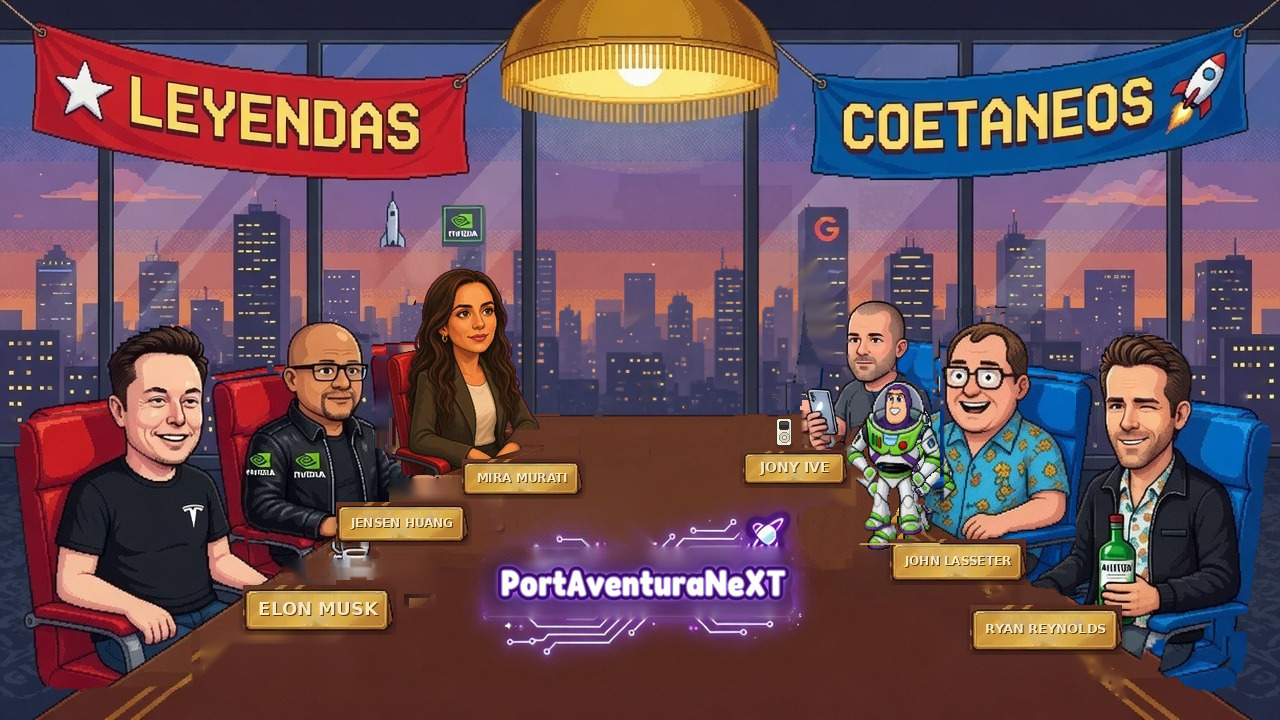
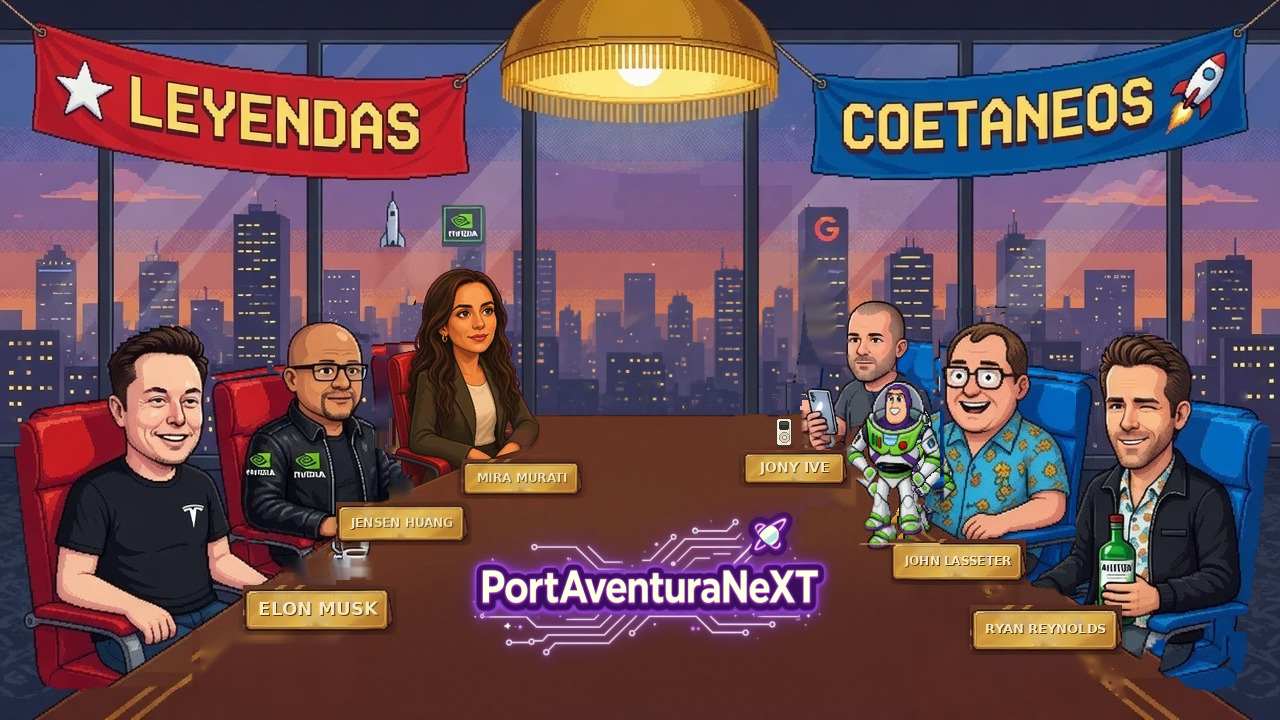
Mesa de Coetáneos regenerada: neón «PortAventuraNeXT» pintado en la mesa (sin parche ni halo) y Carlo Bonomi un 10 % mayor, tras el borde lejano de la mesa (t560u 21:33)

diff --git a/assets/consejo-cabecera.js b/assets/consejo-cabecera.js
@@ -8,11 +8,12 @@
   'use strict';
   var KEY = 'admira:consejo-cabecera';
   var CABECERAS = {
-    'carlo-bonomi': { id: 'carlo-bonomi', nombre: 'Carlo Bonomi', foto: '/assets/cabecera/carlo-bonomi-sentado.webp?v=20261114-mesa', alias: ['bonomi', 'carlo', 'carlo bonomi', 'carlo-bonomi', 'carlobonomi'] }
+    'carlo-bonomi': { id: 'carlo-bonomi', nombre: 'Carlo Bonomi', foto: '/assets/cabecera/carlo-bonomi-sentado.webp?v=20261114-mesa-pan', alias: ['bonomi', 'carlo', 'carlo bonomi', 'carlo-bonomi', 'carlobonomi'] }
   };
-  var POS = { mesa: 'coetaneos', x: 45.0, y: 35.5, w: 12.6, h: 25.722 };
+  // Carlos 21:33: Bonomi un 10 % más grande y más al fondo, tras el borde lejano de la mesa (y=57.57 %); corte = % inferior oculto por la mesa.
+  var POS = { mesa: 'coetaneos', x: 44.37, y: 33.24, w: 13.86, h: 28.294, corte: 14 };
   // Demo (?demo=pan, data-demo-pan en <html>): el neón de la mesa dice «PortAventuraNeXT». Igual que LOGO_DEMO de escena0-guion.mjs.
-  var LOGO = { mesa: 'coetaneos', foto: '/assets/demo/logo-portaventuranext.webp?v=20261114-pan-humo', x: 36.5625, y: 74.1667, w: 26.4062, h: 13.3333 };
+  var LOGO = { mesa: 'coetaneos', foto: '/assets/demo/logo-portaventuranext.webp?v=20261114-mesa-pan', x: 36.5625, y: 74.1667, w: 26.4062, h: 13.3333 };
   var DEFECTO = 'carlo-bonomi';
 
   function plano(s) { return String(s == null ? '' : s).toLowerCase().normalize('NFD').replace(/[\u0300-\u036f]/g, '').trim().replace(/\s+/g, ' '); }
@@ -94,8 +95,8 @@
     document.documentElement.toggleAttribute('data-cabecera', !!(c && gen === POS.mesa));
     if (!c || gen !== POS.mesa) { el.style.display = 'none'; el.innerHTML = ''; return; }
     el.innerHTML =
-      '<img alt="' + c.nombre + ' en la cabecera" data-cabecera="' + c.id + '" src="' + c.foto + '" style="position:absolute;left:' + POS.x + '%;top:' + POS.y + '%;width:' + POS.w + '%;height:' + POS.h + '%;image-rendering:auto">' +
-      '<span class="cabecera-placa" style="position:absolute;left:' + (POS.x + POS.w / 2) + '%;top:' + (POS.y + POS.h + 1.4) + '%;transform:translateX(-50%);white-space:nowrap;padding:.25em .7em;font:700 clamp(8px,1.05vw,15px)/1.1 Georgia,serif;letter-spacing:.06em;text-transform:uppercase;color:#3a2405;background:linear-gradient(#ffe58a,#c9a227 55%,#9c7414);border:1px solid #5a3d08;border-radius:3px;box-shadow:0 2px 0 rgba(0,0,0,.6)">' + c.nombre + '</span>';
+      '<img alt="' + c.nombre + ' en la cabecera" data-cabecera="' + c.id + '" src="' + c.foto + '" style="position:absolute;left:' + POS.x + '%;top:' + POS.y + '%;width:' + POS.w + '%;height:' + POS.h + '%;image-rendering:auto;clip-path:inset(0 0 ' + (POS.corte || 0) + '% 0)">' +
+      '<span class="cabecera-placa" style="position:absolute;left:' + (POS.x + POS.w / 2) + '%;top:' + (POS.y + POS.h * (1 - (POS.corte || 0) / 100) + 0.8) + '%;transform:translateX(-50%);white-space:nowrap;padding:.25em .7em;font:700 clamp(8px,1.05vw,15px)/1.1 Georgia,serif;letter-spacing:.06em;text-transform:uppercase;color:#3a2405;background:linear-gradient(#ffe58a,#c9a227 55%,#9c7414);border:1px solid #5a3d08;border-radius:3px;box-shadow:0 2px 0 rgba(0,0,0,.6)">' + c.nombre + '</span>';
     el.style.display = 'block';
   }
   root.CouncilCabecera = {

diff --git a/escena0/escena0.js b/escena0/escena0.js
@@ -1,11 +1,11 @@
 import {
   parseMesa, MESAS, ROLES, IMG, ANCLA, TEMA_DEFECTO, promptDe, canalVacio,
   marcarPresente, publicState, reservar, decir, siguienteSpeaker,
-} from '/escena0-lib.mjs?v=20261114-pan-humo';
+} from '/escena0-lib.mjs?v=20261114-mesa-pan';
 import {
   parseGuion, parseCabecera, CABECERA_POS, textoTurno, bolsasGuion, promptGuion, mesaDeGuion, msLectura, anclaGuion,
   parseLang, lineasTurno, ROTULOS_EN, anchoGlobo, cajaGlobo, LOGO_DEMO,
-} from '/escena0-guion.mjs?v=20261114-pan-humo';
+} from '/escena0-guion.mjs?v=20261114-mesa-pan';
 
 const $ = (id) => document.getElementById(id);
 const q = new URLSearchParams(location.search);
@@ -92,6 +92,9 @@ function colocarCabecera() {
   el.style.top = (box.y + CABECERA_POS.y / 100 * box.h) + 'px';
   el.style.width = (CABECERA_POS.w / 100 * box.w) + 'px';
   el.style.height = (CABECERA_POS.h / 100 * box.h) + 'px';
+  const corte = CABECERA_POS.corte || 0;
+  const img = $('cabecera-img'); if (img) img.style.clipPath = 'inset(0 0 ' + corte + '% 0)';
+  const placa = $('cabecera-placa'); if (placa) placa.style.top = (100 - corte + 0.8 / CABECERA_POS.h * 100) + '%';
 }
 
 // Neón de la mesa de los Coetáneos con «PortAventuraNeXT» en el flujo de presentación (pan, carlos-bonomi, gartner).

diff --git a/index.html b/index.html
@@ -4600,10 +4600,10 @@ body.rail-open{overflow:hidden}
 <script defer src="/assets/cli-ayuda.js?v=20261011-5707-selector"></script>
 <link rel="stylesheet" href="/assets/webcam.css?v=20261014-5863">
 <script defer src="/assets/webcam.js?v=20261014-5863"></script>
-<script defer src="assets/council-presencia.js?v=20261114-pan-humo"></script>
-<script defer src="assets/consejo-cabecera.js?v=20261114-pan-humo"></script>
+<script defer src="assets/council-presencia.js?v=20261114-mesa-pan"></script>
+<script defer src="assets/consejo-cabecera.js?v=20261114-mesa-pan"></script>
 <script defer src="assets/consejo-demo.js?v=20261114-logo"></script>
-<script defer src="app.flt-100529.js?v=20261114-pan-humo"></script>
+<script defer src="app.flt-100529.js?v=20261114-mesa-pan"></script>
 <script defer src="assets/consejero-mesa.js?v=20261114-consejero-mesa"></script>
 <script defer src="council-preview.js?v=20261114-r180-misiones-off"></script>
 <script defer src="council-composer.js?v=20261114-r181-conversacion"></script>

diff --git a/escena0/index.html b/escena0/index.html
@@ -6,7 +6,7 @@
   <meta name="robots" content="noindex, nofollow">
   <title>Escena 0 · Consejo AdmiraNeXT</title>
   <script src="/auth-gate.js?v=20261004-r15-sinfranja"></script>
-  <link rel="stylesheet" href="/escena0/escena0.css?v=20261114-logo">
+  <link rel="stylesheet" href="/escena0/escena0.css?v=20261114-mesa-pan">
 </head>
 <body>
   <div id="elige" class="overlay" hidden>
@@ -43,6 +43,6 @@
   </div>
   <div id="sello"></div>
   <script src="/consejeros-voces.js?v=20261112-sin-acople"></script>
-  <script type="module" src="/escena0/escena0.js?v=20261114-pan-humo"></script>
+  <script type="module" src="/escena0/escena0.js?v=20261114-mesa-pan"></script>
 </body>
 </html>

diff --git a/app.flt-100529.js b/app.flt-100529.js
@@ -261,7 +261,7 @@
     let currentGen = "leyendas";
     let speakerTurnMap = {};
     let activeLegendPersona = "Steve Jobs";
-    const COUNCIL_IMAGE_VERSION = "20261114-pan-humo";
+    const COUNCIL_IMAGE_VERSION = "20261114-mesa-pan";
     const LEGEND_MANDATES = {
         "Steve Jobs": {
             short: "foco producto",

diff --git a/app.js b/app.js
@@ -261,7 +261,7 @@
     let currentGen = "leyendas";
     let speakerTurnMap = {};
     let activeLegendPersona = "Steve Jobs";
-    const COUNCIL_IMAGE_VERSION = "20261114-pan-humo";
+    const COUNCIL_IMAGE_VERSION = "20261114-mesa-pan";
     const LEGEND_MANDATES = {
         "Steve Jobs": {
             short: "foco producto",

diff --git a/assets/council-presencia.js b/assets/council-presencia.js
@@ -5,7 +5,7 @@
 (function (root) {
   'use strict';
   var KEY = 'admira:consejo-presencia';
-  var ASSET_V = '20261114-pan-humo';
+  var ASSET_V = '20261114-mesa-pan';
   var GENS = {
     leyendas: [
       ['Steve Jobs', 'CEO', 'racional', ['jobs', 'steve jobs', 'steve-jobs']],

diff --git a/tools/mesa-coetaneos-componer.py b/tools/mesa-coetaneos-componer.py
@@ -1,0 +1,31 @@
+# Mesa de Coetáneos regenerada (t560u 21:33): recorte (360,405)-(920,720) del arte original editado con GenerateImage («PortAventuraNeXT» limpio), alineado por ECC, color igualado y fundido con máscara suave (personas intactas). Ver /workspace/demo-consejo/mesa-pan/.
+import cv2, numpy as np, sys
+# uso: componer.py orig.jpg gen.jpg out.png  [cajas de personas en coords de recorte 560x315: x0,y0,x1,y1;...]
+orig=cv2.imread(sys.argv[1]); gen=cv2.imread(sys.argv[2]); out=sys.argv[3]
+cajas=[tuple(map(int,c.split(','))) for c in sys.argv[4].split(';')] if len(sys.argv)>4 and sys.argv[4] else []
+X0,Y0,X1,Y1=360,405,920,720; w,h=X1-X0,Y1-Y0
+o=orig[Y0:Y1,X0:X1]
+o2=cv2.resize(o,(w*2,h*2),interpolation=cv2.INTER_LANCZOS4); g2=cv2.resize(gen,(w*2,h*2),interpolation=cv2.INTER_AREA)
+og=cv2.cvtColor(o2,cv2.COLOR_BGR2GRAY).astype(np.float32); gg=cv2.cvtColor(g2,cv2.COLOR_BGR2GRAY).astype(np.float32)
+m=np.ones(og.shape,np.uint8); m[180:470,180:860]=0
+W=np.eye(2,3,dtype=np.float32)
+cc,W=cv2.findTransformECC(og,gg,W,cv2.MOTION_AFFINE,(cv2.TERM_CRITERIA_EPS|cv2.TERM_CRITERIA_COUNT,200,1e-6),m,5)
+al=cv2.warpAffine(g2,W,(w*2,h*2),flags=cv2.INTER_LINEAR+cv2.WARP_INVERSE_MAP,borderMode=cv2.BORDER_REPLICATE)
+al=cv2.resize(al,(w,h),interpolation=cv2.INTER_AREA).astype(np.float32)
+# corrección de color de baja frecuencia (sólo fuera del logo)
+ref=np.ones((h,w),bool); ref[90:235,90:430]=False
+for x0,y0,x1,y1 in cajas: ref[y0:y1,x0:x1]=False
+of=o.astype(np.float32)
+for c in range(3):
+    a,b=al[...,c][ref],of[...,c][ref]
+    al[...,c]=(al[...,c]-a.mean())*(b.std()/a.std())+b.mean()
+mask=np.ones((h,w),np.float32)
+for x0,y0,x1,y1 in cajas: mask[y0:y1,x0:x1]=0
+mask=cv2.GaussianBlur(mask,(0,0),3)
+edge=np.ones((h,w),np.float32); F=14
+ramp=np.clip(np.arange(w)/F,0,1); edge*=ramp[None,:]; edge*=ramp[::-1][None,:]
+edge*=np.clip(np.arange(h)/F,0,1)[:,None]
+mask*=edge
+res=orig.copy().astype(np.float32)
+res[Y0:Y1,X0:X1]=of*(1-mask[...,None])+np.clip(al,0,255)*mask[...,None]
+cv2.imwrite(out,res.astype(np.uint8)); print('ecc',cc)
